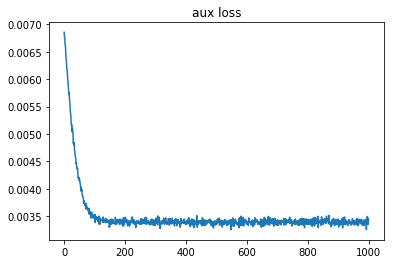
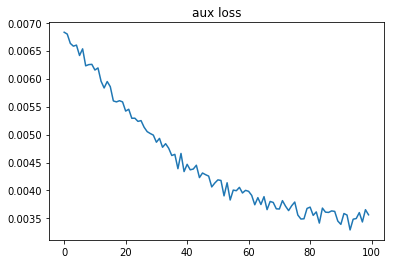
resize to the same size as the Atari papers to ensure network is convolving properly.

diff --git a/grid_x_y_predict.py b/grid_x_y_predict.py
@@ -8,12 +8,13 @@ Created on Tue Feb 20 12:31:13 2018
 from keras_deep_q import DeepQ
 import numpy as np
 from matplotlib import pyplot as plt
-
+import skimage.transform
 
 class Grid_World():
     """
     Sample grid that more or less mimics AI Gym environments
     """
+    newsize = np.array([84,84,3])
 
     def __init__(self, x_dim, y_dim):
         self.x_dim = x_dim
@@ -47,6 +48,12 @@ class Grid_World():
         return s_, r, t, info
 
     def data(self):
+        output = self.actual_data()
+        # resize to match "standard" atari network
+        output = skimage.transform.resize(output, self.newsize, mode='constant', order=0)
+        return output
+
+    def actual_data(self):
         output = np.zeros((self.x_dim, self.y_dim, 3))
         output[tuple(self.failure) + (0,)] = 1 # r
         output[tuple(self.goal)    + (1,)] = 1 # g
@@ -80,16 +87,17 @@ class Grid_World():
 
 class Predict():
     action_shape = (1,)
-    epochs = 1000
-    batch_size = 2000
+    epochs = 100
+    batch_size = 200
     a_loss = []
     q_loss = []
     use_aux = True
+    use_q = False
 
 
     def __init__(self, gw: Grid_World):
         self.gw = gw
-        self.deep_q = DeepQ((gw.x_dim, gw.y_dim, 3), self.action_shape, gw.x_dim * gw.y_dim)
+        self.deep_q = DeepQ(self.action_shape, gw.x_dim * gw.y_dim)
 
     def get_samples(self, n):
         """
@@ -120,15 +128,18 @@ class Predict():
             s_batch, a_batch, r_batch, aux_batch = self.get_samples(self.batch_size)
             if self.use_aux:
                 al = self.deep_q.train_auxillary(s_batch, a_batch, aux_batch)
+                print(al, end=",")
                 self.a_loss.append(al)
-            ql = self.deep_q.train_q_model(s_batch, a_batch, r_batch)
+            if self.use_q:
+                ql = self.deep_q.train_q_model(s_batch, a_batch, r_batch)
+                self.q_loss.append(ql)
+                print(ql, end=", ")
 
-            self.q_loss.append(ql)
-            print(ql, end=", ")
+        if self.use_q:
+            plt.title("q loss")
+            plt.plot(self.q_loss)
+            plt.show()
 
-        plt.title("q loss")
-        plt.plot(self.q_loss)
-        plt.show()
         if self.use_aux:
             plt.title("aux loss")
             plt.plot(self.a_loss)
@@ -138,16 +149,14 @@ class Predict():
 
 if __name__ == '__main__':
     gw = Grid_World(3,4)
-    plt.imshow(gw.data())
+    plt.title("grid r=fail, g=goal, b=play")
+    plt.imshow(gw.actual_data())
     plt.show()
+    plt.title("probability of player location")
     plt.imshow(gw.auxillary())
     plt.show()
 
     predict = Predict(gw)
     predict.train()
-    no_aux = predict.q_loss
 
-    predict.use_aux = True
-    predict.train()
-    yes_auct = predict.q_loss
 

diff --git a/keras_deep_q.py b/keras_deep_q.py
@@ -15,10 +15,11 @@ import numpy as np
 
 class DeepQ():
     TAU = 0.1
-    _learning_rate = 1e-4 #use change_learning_rate(new_rate)
+    _learning_rate = 1e-4 # use change_learning_rate(new_rate)
+    input_shape = (84,84,3) # input shape from Atari papers
 
-    def __init__(self, input_shape, action_shape, num_aux_rewards):
-
+    def __init__(self, action_shape, num_aux_rewards):
+        input_shape = self.input_shape
         #create models
         shared_base = self._create_shared_based(input_shape)
         q_model = self._create_q_model(shared_base, action_shape)
